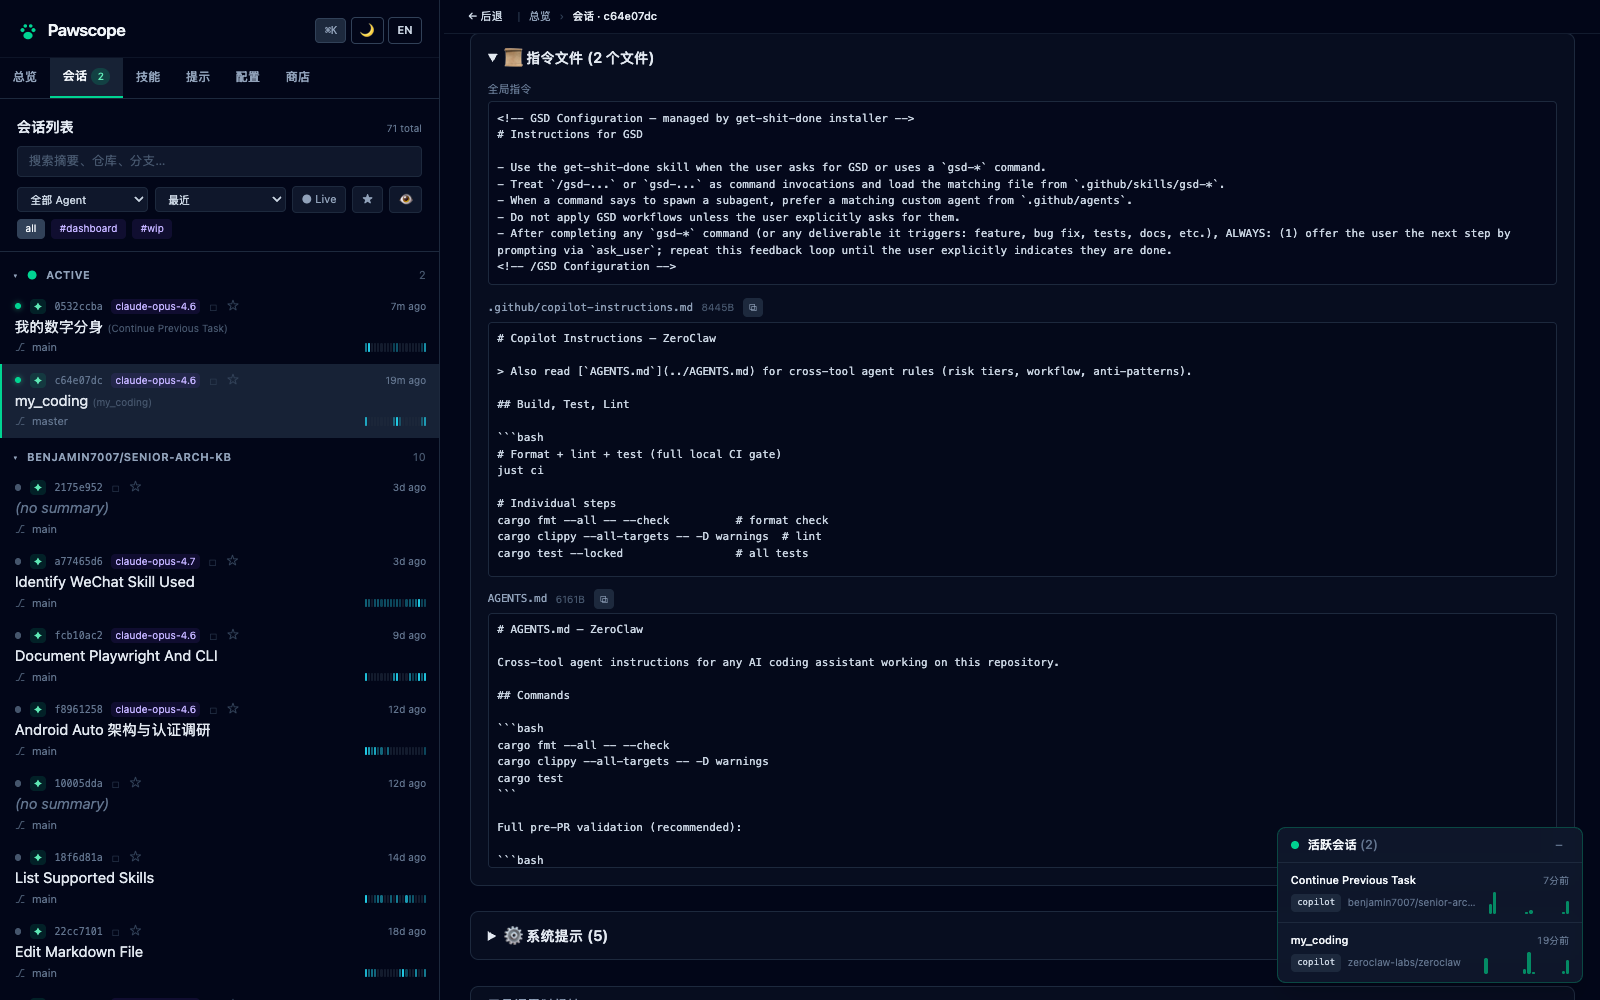
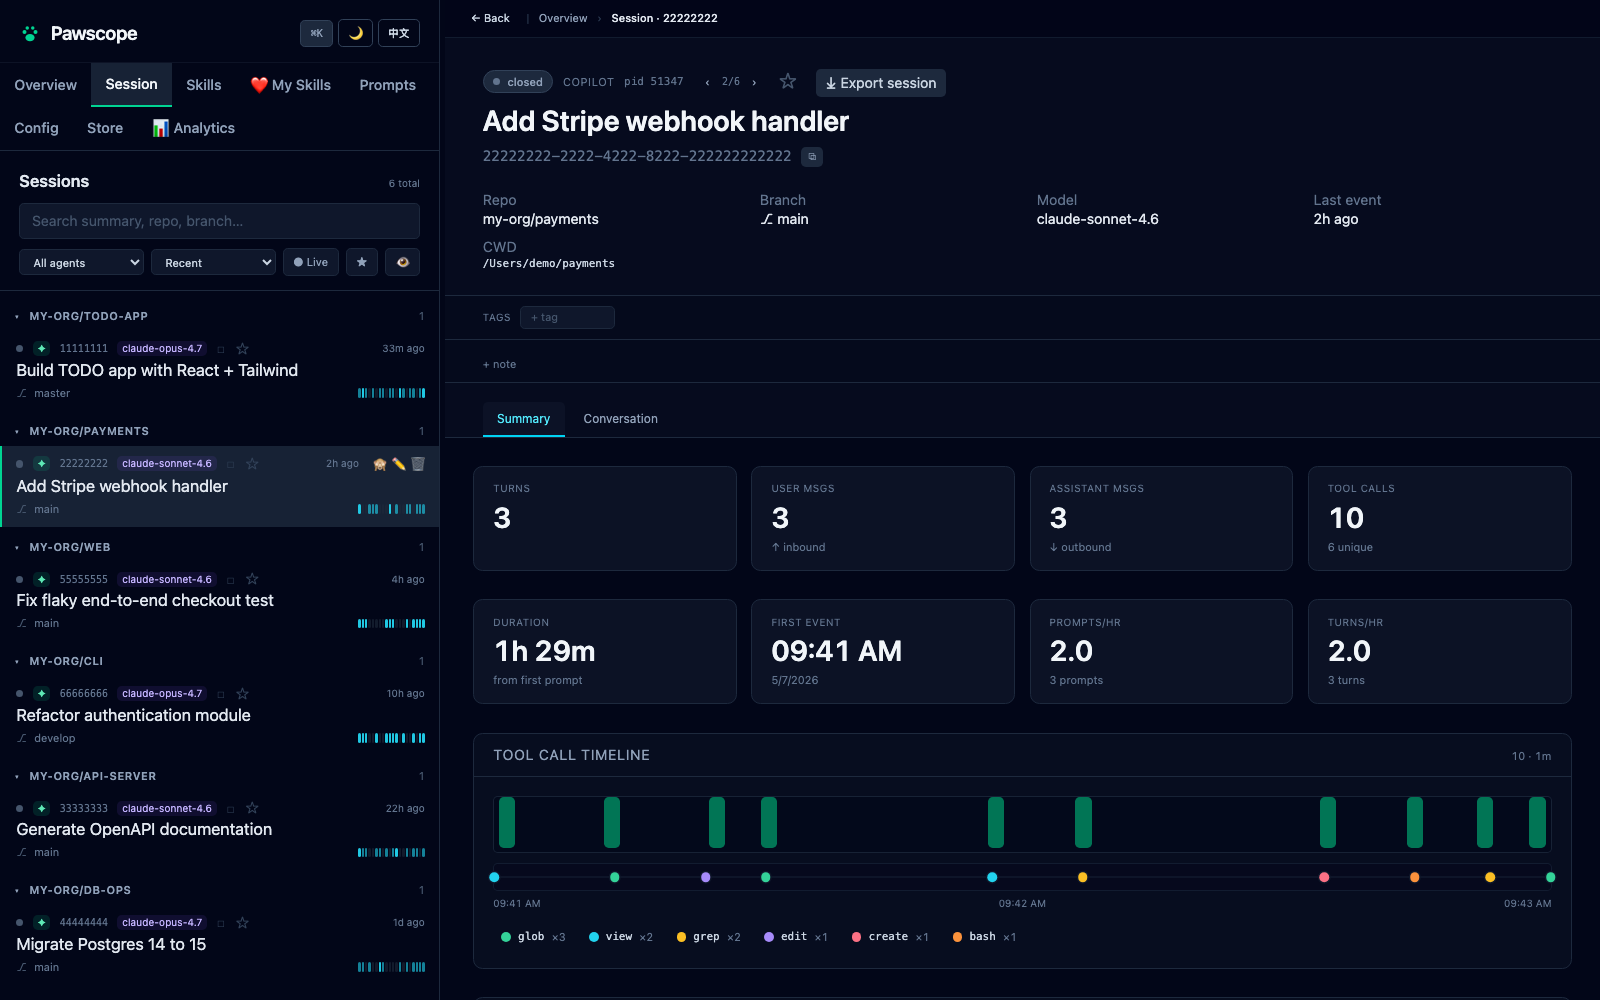
docs: regenerate screenshots with synthetic demo data
All 8 README screenshots now use gen-demo-home.py fake data.
No personal session data, names, or repos in any screenshot.
Added 06-config, 07-store, 08-instructions to Playwright spec.

diff --git a/e2e/screenshots.spec.ts b/e2e/screenshots.spec.ts
@@ -68,3 +68,26 @@ test('05-prompts', async ({ page }) => {
   await clickTopNav(page, /Prompts|提示/);
   await page.screenshot({ path: path.join(OUT, '05-prompts.png'), fullPage: false });
 });
+
+test('06-config', async ({ page }) => {
+  await setup(page);
+  await clickTopNav(page, /Config|配置/);
+  await page.waitForTimeout(1000);
+  await page.screenshot({ path: path.join(OUT, '06-config.png'), fullPage: false });
+});
+
+test('07-store', async ({ page }) => {
+  await setup(page);
+  await clickTopNav(page, /Store|商店/);
+  await page.waitForTimeout(2000);
+  await page.screenshot({ path: path.join(OUT, '07-store.png'), fullPage: false });
+});
+
+test('08-instructions', async ({ page }) => {
+  await setup(page);
+  // Click a session and capture the detail view showing system prompt
+  const card = page.getByText('Add Stripe webhook handler').first();
+  await card.click();
+  await page.waitForTimeout(2000);
+  await page.screenshot({ path: path.join(OUT, '08-instructions.png'), fullPage: false });
+});
